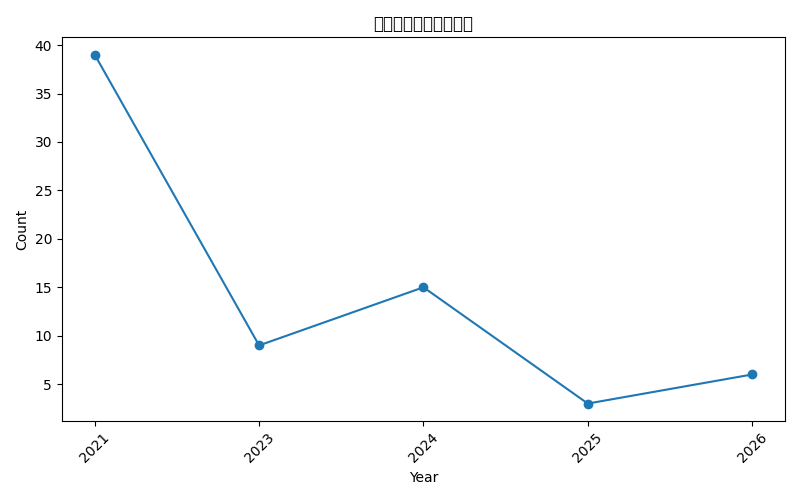
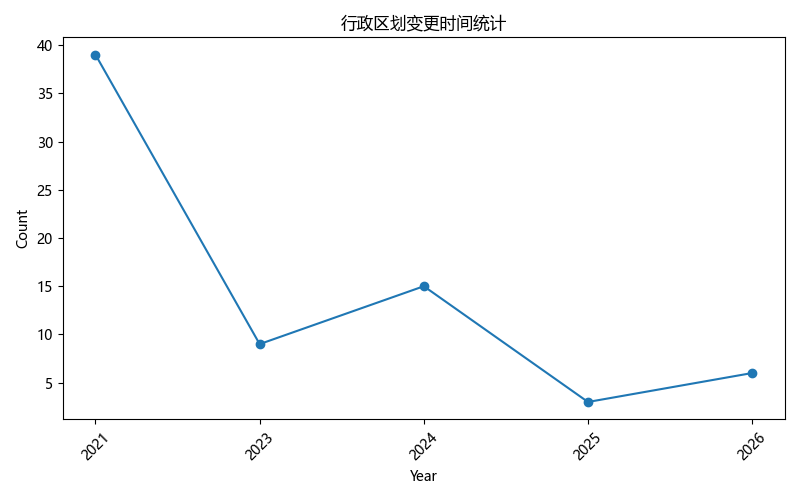
123

diff --git a/src/graph.py b/src/graph.py
@@ -1,28 +1,51 @@
-
+# src/graph.py
 import networkx as nx
 from pyvis.network import Network
+import os
+
 
 def build_graph(relations):
-
+    """
+    基于关系字典列表，构建网络图并保存为可交互的 HTML 文件
+    """
     G = nx.DiGraph()
 
-    for source, relation, target in relations:
+    # ================= 1. 核心修复：安全的数据解包 =================
+    for item in relations:
+        # 手动通过字典的键把对应的值取出来，防止报错
+        source = item.get("source_node")
+        relation = item.get("relation")
+        target = item.get("target_node")
 
-        G.add_node(source)
-        G.add_node(target)
+        # 加上一个安全判断：如果成功取到了源节点和目标节点，才画到图谱上
+        if source and target:
+            G.add_node(source)
+            G.add_node(target)
+            G.add_edge(
+                source,
+                target,
+                title=relation  # 鼠标悬停在连线上时会显示“变更设立”等文字
+            )
 
-        G.add_edge(
-            source,
-            target,
-            title=relation
-        )
-
+    # ================= 2. 配置并生成前端图谱 =================
     net = Network(
         height="750px",
         width="100%",
-        directed=True
+        directed=True,  # 开启箭头指向
+        neighborhood_highlight=True  # 开启高亮：点击一个节点，相关的节点会亮起
     )
 
     net.from_nx(G)
 
-    net.save_graph("templates/graph.html")
+    # ================= 3. 智能路径修复 =================
+    # 自动定位到项目根目录下的 templates 文件夹，无论在哪运行都不会找不到路径
+    BASE_DIR = os.path.dirname(os.path.dirname(os.path.abspath(__file__)))
+    output_path = os.path.join(BASE_DIR, "templates", "graph.html")
+
+    # 确保 templates 文件夹存在
+    os.makedirs(os.path.dirname(output_path), exist_ok=True)
+
+    # 导出 HTML
+    net.save_graph(output_path)
+
+    return G

diff --git a/src/build_graph_data.py b/src/build_graph_data.py
@@ -1,12 +1,10 @@
+# src/build_graph_data.py
 import pandas as pd
 import os
-
-# 导入你刚刚在 relation.py 里写好的高级引擎
 from relation import extract_dual_relations
 
+
 def main():
-    # ================= 1. 智能定位路径 (告别绝对路径) =================
-    # 自动定位项目根目录下的 data 文件夹
     BASE_DIR = os.path.dirname(os.path.dirname(os.path.abspath(__file__)))
     INPUT_FILE = os.path.join(BASE_DIR, "data", "mca_dynamic_changes.csv")
     STATIC_OUTPUT = os.path.join(BASE_DIR, "data", "static_edges.csv")
@@ -14,42 +12,28 @@ def main():
 
     print(f"🚀 开始加载语料：{INPUT_FILE}")
     if not os.path.exists(INPUT_FILE):
-        print("❌ 错误：找不到原始数据文件！请检查 spider.py 是否成功运行。")
+        print("❌ 错误：找不到原始数据文件！")
         return
 
     df = pd.read_csv(INPUT_FILE)
+    static_triplets, dynamic_triplets = [], []
 
-    static_triplets = []
-    dynamic_triplets = []
-
-    # ================= 2. 启动双路数据解构 =================
     print("正在进行双路数据解构...")
     for index, row in df.iterrows():
-        text = row['raw_text']
-        # 调用 relation.py 里的函数
-        result = extract_dual_relations(text)
-
-        # 将结果分别塞进两个列表
+        result = extract_dual_relations(row['raw_text'])
         dynamic_triplets.extend(result["dynamic"])
         static_triplets.extend(result["static"])
 
-    # 转换为 DataFrame 并去重
     df_static = pd.DataFrame(static_triplets).drop_duplicates()
     df_dynamic = pd.DataFrame(dynamic_triplets).drop_duplicates()
 
-    print(f"✅ 解构完毕！")
-    print(f"📊 提取到静态隶属边（纵向层级树）：{len(df_static)} 条")
-    print(f"📊 提取到动态变更边（横向历史演变）：{len(df_dynamic)} 条")
-
-    # ================= 3. 保存最终边表 =================
-    # 确保存储目录存在
     os.makedirs(os.path.dirname(STATIC_OUTPUT), exist_ok=True)
-
     df_static.to_csv(STATIC_OUTPUT, index=False, encoding="utf-8-sig")
     df_dynamic.to_csv(DYNAMIC_OUTPUT, index=False, encoding="utf-8-sig")
 
-    print(f"\n💾 两张核心图谱边表已安全导出至 data/ 目录！")
-    print("👉 数据处理流程彻底打通，可以让前端同学开始画图啦！")
+    print(f"✅ 解构完毕！成功提取 静态隶属边 {len(df_static)} 条，动态演化边 {len(df_dynamic)} 条。")
+    print(f"💾 两张核心图谱边表已安全导出至 data/ 目录！")
+
 
 if __name__ == "__main__":
     main()

diff --git a/src/relation.py b/src/relation.py
@@ -1,9 +1,10 @@
+# src/relation.py
 import re
 
 
-def extract_relations(text):
+def extract_dual_relations(text):
     """
-    高级双路解构引擎：同时提取时间维度（动态变更边）和空间维度（静态隶属边）
+    高级双路解构引擎（给离线清洗数据 build_graph_data.py 用的）
     """
     if not isinstance(text, str):
         return {"dynamic": [], "static": []}
@@ -11,7 +12,6 @@ def extract_relations(text):
     dynamic_edges = []
     static_edges = []
 
-    # 核心正则：标点符号边界提取与层级劈裂
     pattern_dynamic = re.compile(r"撤销(?P<old_name>[^，。、；]+).*?设立(?P<new_name>[^，。、；]+)")
     pattern_static = re.compile(r"^(?P<parent>.*?[省市州盟自治区])(?P<child>.+?[市区县旗])$")
 
@@ -20,22 +20,25 @@ def extract_relations(text):
         old_name = match_dyn.group('old_name').strip()
         new_name = match_dyn.group('new_name').strip()
 
-        # 1. 记录动态边（前世今生）
         dynamic_edges.append({
-            "source_node": old_name,
-            "relation": "变更设立",
-            "target_node": new_name,
-            "type": "dynamic"
+            "source_node": old_name, "relation": "变更设立", "target_node": new_name, "type": "dynamic"
         })
 
-        # 2. 记录静态边（对新名字进行二次解构，寻找上级）
         match_sta = pattern_static.search(new_name)
         if match_sta:
             static_edges.append({
-                "source_node": match_sta.group('child'),
-                "relation": "隶属于",
-                "target_node": match_sta.group('parent'),
+                "source_node": match_sta.group('child'), "relation": "隶属于", "target_node": match_sta.group('parent'),
                 "type": "static"
             })
 
     return {"dynamic": dynamic_edges, "static": static_edges}
+
+
+def extract_relations(text):
+    """
+    兼容接口（专门给 app.py 用的）
+    确保返回的是一个【列表 List】，防止 extend() 函数把它拆碎！
+    """
+    dual_result = extract_dual_relations(text)
+    # 将动态边和静态边合并成一个大的列表返回
+    return dual_result["dynamic"] + dual_result["static"]

diff --git a/src/ner.py b/src/ner.py
@@ -1,0 +1,16 @@
+# src/ner.py
+import re
+
+
+def extract_entities(text):
+    """
+    实体抽取模块：专门提取文本中的行政区划地名，供前端渲染展示。
+    """
+    if not isinstance(text, str):
+        return []
+
+    # 提取所有带有行政级别后缀的中文词汇
+    entities = re.findall(r"[\u4e00-\u9fa5]+?[省市州盟区县乡镇街道]", text)
+
+    # 去重后返回列表
+    return list(set(entities))

diff --git a/src/forecast.py b/src/forecast.py
@@ -1,5 +1,12 @@
 
 import matplotlib.pyplot as plt
+# ================= 解决图表中文显示为方块的问题 =================
+plt.rcParams[
+'font.sans-serif'] = ['Microsoft YaHei', 'SimHei']  # 优先使用微软雅黑或黑体
+plt.rcParams[
+'axes.unicode_minus'] = False  # 正常显示负号
+# ==============================================================
+
 from collections import Counter
 import re
 

diff --git a/app.py b/app.py
@@ -1,7 +1,7 @@
 
 from flask import Flask, render_template
 from src.data_clean import load_changes
-# from src.ner import extract_entities
+from src.ner import extract_entities
 from src.relation import extract_relations
 from src.classify import classify_text
 from src.graph import build_graph